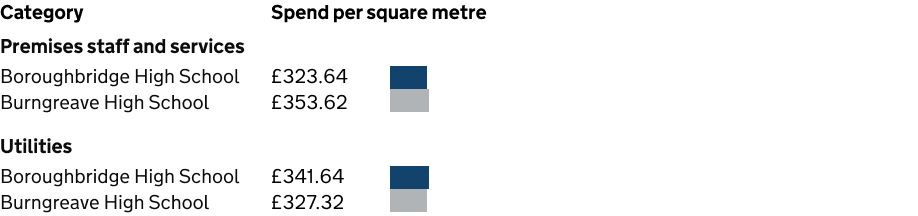
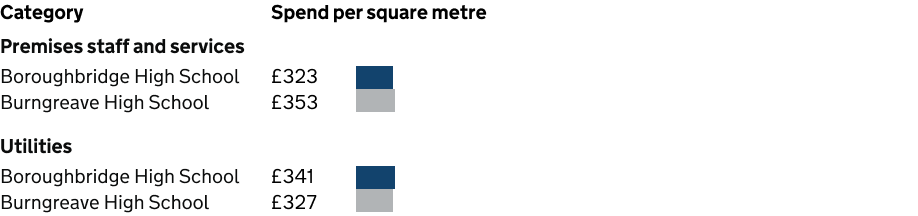
Prototype/Client feedback updates

Changed region(s): [[0.3355, 0.75, 0.488, 1.0], [0.3355, 0.3056, 0.488, 0.5278]]

diff --git a/prototype/src/app/views/spending-and-costs/index.html b/prototype/src/app/views/spending-and-costs/index.html
@@ -50,24 +50,24 @@
 
         {{ spendCategory({
             title: 'Teaching and teaching supply staff',
-            spendAmount: 4746.93,
-            medianAmount: 3128.61,
+            spendAmount: 4746,
+            medianAmount: 3128,
             unit: 'pupil',
             percentile: 92
         }) }}
 
         {{ spendCategory({
             title: 'Premises staff and services',
-            spendAmount: 323.64,
-            medianAmount: 478.61,
+            spendAmount: 323,
+            medianAmount: 478,
             unit: 'pupil',
             percentile: 8
         }) }}
 
         {{ spendCategory({
             title: 'Utilities',
-            spendAmount: 341.64,
-            medianAmount: 228.61,
+            spendAmount: 341,
+            medianAmount: 228,
             unit: 'square metre',
             percentile: 83
         }) }}
@@ -79,50 +79,42 @@
 
         {{ spendCategory({
             title: 'Non-educational support staff',
-            spendAmount: 323.89,
-            medianAmount: 301.61,
+            spendAmount: 323,
+            medianAmount: 301,
             unit: 'pupil',
             percentile: 53
         }) }}
 
         {{ spendCategory({
             title: 'Educational supplies',
-            spendAmount: 298.84,
-            medianAmount: 274.12,
+            spendAmount: 298,
+            medianAmount: 274,
             unit: 'pupil',
             percentile: 55
         }) }}
 
         {{ spendCategory({
             title: 'Educational ICT',
-            spendAmount: 48.55,
-            medianAmount: 74.84,
+            spendAmount: 48,
+            medianAmount: 74,
             unit: 'pupil',
             percentile: 31
         }) }}
 
         {{ spendCategory({
             title: 'Administrative supplies',
-            spendAmount: 96.76,
-            medianAmount: 94.18,
+            spendAmount: 96,
+            medianAmount: 94,
             unit: 'pupil',
             percentile: 51
         }) }}
 
         {{ spendCategory({
             title: 'Catering staff and services',
-            spendAmount: 427.49,
-            medianAmount: 351.84,
+            spendAmount: 427,
+            medianAmount: 351,
             unit: 'pupil',
             percentile: 72
-        }) }}
-
-        {{ spendCategory({
-            title: 'Other',
-            spendAmount: 185.64,
-            medianAmount: 178.61,
-            unit: 'pupil',
-            percentile: 52
         }) }}
 
     </div>

diff --git a/prototype/src/app/views/spending-and-costs/category.html b/prototype/src/app/views/spending-and-costs/category.html
@@ -54,8 +54,8 @@
 
 {{ spendCategoryDetails({
     title: 'Total costs',
-    spendAmount: 4746.93,
-    medianAmount: 3128.61,
+    spendAmount: 4746,
+    medianAmount: 3128,
     unit: 'pupil',
     percentile: 92,
     intCount: intCount
@@ -64,8 +64,8 @@
 {% set intCount = intCount + 1 %}
 {{ spendCategoryDetails({
     title: 'Teaching staff costs',
-    spendAmount: 3773.68,
-    medianAmount: 2789.62,
+    spendAmount: 3773,
+    medianAmount: 2789,
     unit: 'pupil',
     intCount: intCount
 }) }}
@@ -73,8 +73,8 @@
 {% set intCount = intCount + 1 %}
 {{ spendCategoryDetails({
     title: 'Education support staff costs',
-    spendAmount: 750.99,
-    medianAmount: 489.62,
+    spendAmount: 750,
+    medianAmount: 489,
     unit: 'pupil',
     intCount: intCount
 }) }}
@@ -82,8 +82,8 @@
 {% set intCount = intCount + 1 %}
 {{ spendCategoryDetails({
     title: 'Agency supply teaching staff costs',
-    spendAmount: 189.83,
-    medianAmount: 148.62,
+    spendAmount: 189,
+    medianAmount: 148,
     unit: 'pupil',
     intCount: intCount
 }) }}
@@ -91,8 +91,8 @@
 {% set intCount = intCount + 1 %}
 {{ spendCategoryDetails({
     title: 'Educational consultancy costs',
-    spendAmount: 10.62,
-    medianAmount: 7.62,
+    spendAmount: 10,
+    medianAmount: 7,
     unit: 'pupil',
     intCount: intCount
 }) }}
@@ -100,8 +100,8 @@
 {% set intCount = intCount + 1 %}
 {{ spendCategoryDetails({
     title: 'Supply teaching staff costs',
-    spendAmount: 21.81,
-    medianAmount: 14.62,
+    spendAmount: 21,
+    medianAmount: 14,
     unit: 'pupil',
     intCount: intCount
 }) }}

diff --git a/prototype/src/app/views/comparators/create/local-authority.html b/prototype/src/app/views/comparators/create/local-authority.html
@@ -17,28 +17,6 @@
 
 {% block content %}
 
-
-{% set sameAuthorityHtml %}
-
-  {{ govukInput({
-    label: {
-      text: "District (optional)"
-    },
-    id: "district",
-    name: "district"
-  }) }}
-
-{{ govukInput({
-    label: {
-        text: "Ward (optional)"
-    },
-    id: "ward",
-    name: "ward"
-  }) }}
-
-
-{% endset %}
-
 {% set authorityHtml %}
 
 {{ xGovukAutocomplete({
@@ -54,23 +32,6 @@
     },
     items: rows
   }) }}
-  
-  {{ govukInput({
-    label: {
-      text: "District (optional)"
-    },
-    id: "district",
-    name: "district"
-  }) }}
-
-{{ govukInput({
-    label: {
-        text: "Ward (optional)"
-    },
-    id: "ward",
-    name: "ward"
-  }) }}
-
 
 {% endset %}
 
@@ -101,14 +62,11 @@
                 {
                     value: "same",
                     html: "In the same local authority <br/><span class=\"govuk-hint\">(North Yorkshire Council)</span>",
-                    checked: checked("compareAuthority", "all"),
-                    conditional: {
-                      html: sameAuthorityHtml
-                    }
+                    checked: checked("compareAuthority", "all")
                 },
                 {
                     value: "localAuthority",
-                    text: "In another local authority",
+                    text: "In selected local authorities",
                     checked: checked("compareAuthority", "localAuthority"),
                     conditional: {
                       html: authorityHtml

diff --git a/prototype/src/app/views/index.html b/prototype/src/app/views/index.html
@@ -31,8 +31,7 @@
     <h2 class="govuk-heading-s">Comparator set</h2>
 
     <ul class="govuk-list govuk-list--bullet">
-      <li><a class="govuk-link" href="/comparators/pupil">Pupil set</a></li>
-      <li><a class="govuk-link" href="/comparators/building">Building set</a></li>
+      <li><a class="govuk-link" href="/comparators/view">Comparator sets</a></li>
       <li>
         <a class="govuk-link" href="/comparators/index">Create comparison set</a>
         <ul class="govuk-list govuk-list--bullet">
@@ -52,7 +51,7 @@
       <li><a class="govuk-link" href="/comparators/create/phase">School phase</a></li>
       <li><a class="govuk-link" href="/comparators/create/local-authority">Local authority</a></li>
       <li><a class="govuk-link" href="/comparators/create/characteristics">Characteristics</a></li>
-      <li><a class="govuk-link" href="/comparators/create/characteristics-post-mvp">Additional characteristics (Post-post-MVP)</a></li>
+      <li><a class="govuk-link" href="/comparators/create/characteristics-post-mvp">Additional characteristics (Post-MVP?)</a></li>
     </ul>
 
 

diff --git a/prototype/src/app/views/comparators/view-school.html b/prototype/src/app/views/comparators/view-school.html
@@ -28,7 +28,7 @@
 
 {% set arrContact = [ { text: "Contact" }, { html: "<a href=\"mailto:stevesmith@" + data['school-name'] | lower | replace( " ", "" )+ ".org.uk\">stevesmith@&#8203;" + data['school-name'] | lower | replace( " ", "&#8203;" )+ ".org.uk</a>" }, { html: "<a href=\"mailto:janet.moss@" + comparatorName | lower | replace( " ", "" )+ ".org.uk\">janet.moss@&#8203;" + comparatorName | lower | replace( " ", "&#8203;" )+ ".org.uk</a>" } ] %}
 {% set arrArea = [ { text: "Gross internal floor area" }, { text: "10,130 square metres" }, { text: "14,163 square metres" } ] %}
-{% set arrAge = [ { text: "Average building age" }, { text: "73 years" }, { text: "46 years" } ] %}
+{% set arrAge = [ { text: "Average building age" }, { text: "60 years" }, { text: "46 years" } ] %}
 
 {% else %}
 

diff --git a/prototype/src/app/views/school-homepage.html b/prototype/src/app/views/school-homepage.html
@@ -142,7 +142,7 @@
                 <p class="govuk-body">
                     Measure expected curriculum spending and staffing structure
                 </p>
-                <strong class="govuk-tag govuk-tag--grey">
+                <strong class="govuk-tag govuk-tag--green">
                     Requires login
                 </strong>
             </li>

diff --git a/prototype/src/app/views/trust-homepage.html b/prototype/src/app/views/trust-homepage.html
@@ -367,7 +367,7 @@
                 <p class="govuk-body">
                     Measure expected curriculum spending and staffing structure
                 </p>
-                <strong class="govuk-tag govuk-tag--grey">
+                <strong class="govuk-tag govuk-tag--green">
                     Requires login
                 </strong>
             </li>

diff --git a/prototype/src/app/assets/sass/application.scss b/prototype/src/app/assets/sass/application.scss
@@ -133,8 +133,8 @@
     border: 1px solid #594D00;
 }
 
-.priority.low, .priority.low .govuk-tag--grey, .priority-figures .low div {
-    border: 2px solid #e5e6e7;
+.priority.low, .priority.low .govuk-tag--green, .priority-figures .low div {
+    border: 1px solid #005A30;
 }
 
 .priority-figures .high div {
